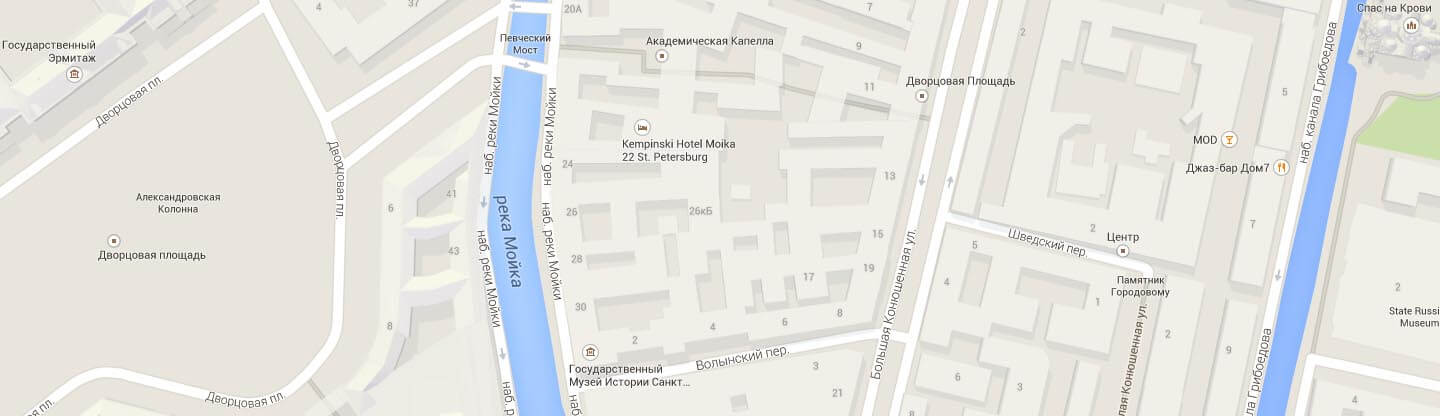
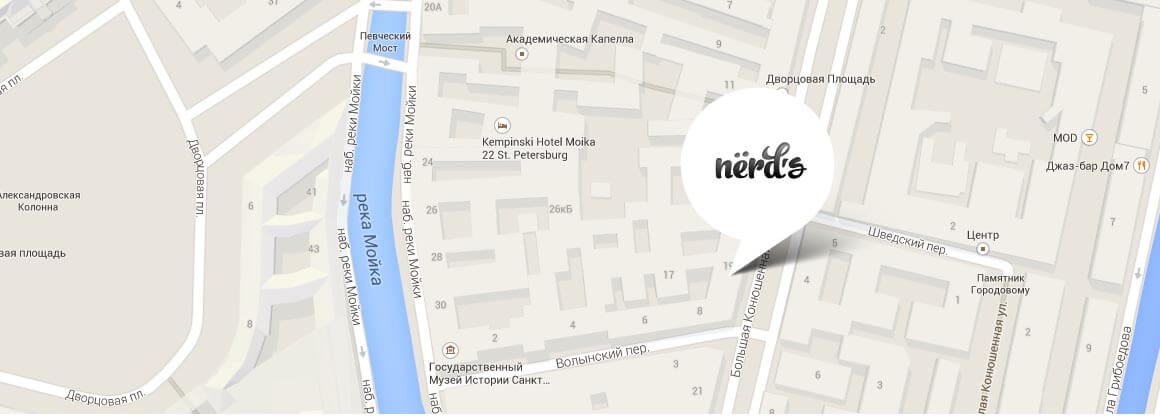
Исправлена интерактивная карта и форма обратной связи

diff --git a/css/style.css b/css/style.css
@@ -696,33 +696,38 @@ tr span {
 }
 /*------------------------------------------------*/
 /*------- Styling of the section "Contacts" and map----*/
-.map {
+.contacts {
+  display: block;
   position: relative;
-
-  width: 1160px;
-  margin: 0 auto;
-  margin-bottom: 62px;
-  padding: 0;
-}
-
-.map img {
-  position: absolute;
-  top: 0;
-  left: 0;
-  z-index: 1;
 
   margin: 0;
+  margin-bottom: 68px;
+  padding: 0;
+
+  min-height: 416px;
 }
 
-.map iframe {
-  position: relative;
+.contacts iframe {
+  position: absolute;
+
+  top: 0;
+  left: 0;
+
   z-index: 2;
 
   border: none;
 }
 
-.address {
+.map {
+  display: block;
   position: absolute;
+  top: 0;
+  left: center;
+  z-index: 1;
+}
+
+.address {
+  position: relative;
   top: 53px;
   left: 0;
   width: 319px;
@@ -746,7 +751,6 @@ tr span {
   text-transform: uppercase;
 }
 
-
 .address p:nth-child(2) {
   margin-bottom: 18px;
   line-height: 18px;
@@ -761,7 +765,6 @@ tr span {
 
 .write-btn {
   width: 219px;
-  /*margin-top: 20px;*/
 
   background-color: #fb565a;
 }
@@ -779,20 +782,6 @@ tr span {
           box-shadow: inset 0 3px rgba(0, 0, 0, 0.1);
 }
 
-.map::after {
-  content: "";
-  position: absolute;
-  top: 89px;
-  left: 544px;
-  width: 367px;
-  height: 190px;
-  background-color: transparent;
-  background-image: url("../img/map-marker.png");
-  background-size: 367px 190px;
-  background-repeat: no-repeat;
-
-  z-index: 1;
-}
 /*----------------------------------------*/
 /* ------ Styling of .page-footer----------*/
 .page-footer {
@@ -1716,6 +1705,8 @@ tr span {
 
   font: inherit;
   line-height: 18px;
+
+  resize: none;
 
   border: 2px solid #d7dcde;
   border-radius: 3px;

diff --git a/catalog.html b/catalog.html
@@ -193,16 +193,14 @@
     </div> <!--Здесь закрывается .container-->
     <section class="contacts">
       <h2 class="visually-hidden">Контакты</h2>
+      <iframe src="https://yandex.ru/map-widget/v1/-/CBquR4H8hA" width="100%" height="416"></iframe>
       <div class="container">
-        <div class="map">
-          <iframe src="https://yandex.ru/map-widget/v1/-/CBquIHhzCB" width="1160" height="416" frameborder="0"></iframe>
-          <img src="img/map-bg.jpg" width="1160" height="416" alt="Карта с расположением офиса студии «Нёрдс» по адресу ул. Б. Конюшенная, д. 19/8, Санкт-Петербург">
-          <div class="address">
-            <p class="address-title">Nёrds design studio</p>
-            <p>191186, Санкт-Петербург,<br>ул. Б. Конюшенная, д. 19/8</p>
-            <p>тел. +7 (812) 275-75-75</p>
-            <a class="button write-btn" href="#">Напишите нам</a>
-          </div>
+        <img class="map" src="img/map.jpg" width="1160" height="416" alt="Карта с расположением офиса студии «Нёрдс» по адресу ул. Б. Конюшенная, д. 19/8, Санкт-Петербург">
+        <div class="address">
+          <p class="address-title">Nёrds design studio</p>
+          <p>191186, Санкт-Петербург,<br>ул. Б. Конюшенная, д. 19/8</p>
+          <p>тел. +7 (812) 275-75-75</p>
+          <a class="button write-btn" href="#">Напишите нам</a>
         </div>
       </div>
     </section>

diff --git a/index.html b/index.html
@@ -143,16 +143,14 @@
     </main>
     <section class="contacts">
       <h2 class="visually-hidden">Контакты</h2>
+      <iframe src="https://yandex.ru/map-widget/v1/-/CBquR4H8hA" width="100%" height="416"></iframe>
       <div class="container">
-        <div class="map">
-          <iframe src="https://yandex.ru/map-widget/v1/-/CBquIHhzCB" width="1160" height="416" frameborder="0"></iframe>
-          <img src="img/map-bg.jpg" width="1160" height="416" alt="Карта с расположением офиса студии «Нёрдс» по адресу ул. Б. Конюшенная, д. 19/8, Санкт-Петербург">
-          <div class="address">
-            <p class="address-title">Nёrds design studio</p>
-            <p>191186, Санкт-Петербург,<br>ул. Б. Конюшенная, д. 19/8</p>
-            <p>тел. +7 (812) 275-75-75</p>
-            <a class="button write-btn" href="#">Напишите нам</a>
-          </div>
+        <img class="map" src="img/map.jpg" width="1160" height="416" alt="Карта с расположением офиса студии «Нёрдс» по адресу ул. Б. Конюшенная, д. 19/8, Санкт-Петербург">
+        <div class="address">
+          <p class="address-title">Nёrds design studio</p>
+          <p>191186, Санкт-Петербург,<br>ул. Б. Конюшенная, д. 19/8</p>
+          <p>тел. +7 (812) 275-75-75</p>
+          <a class="button write-btn" href="#">Напишите нам</a>
         </div>
       </div>
     </section>
